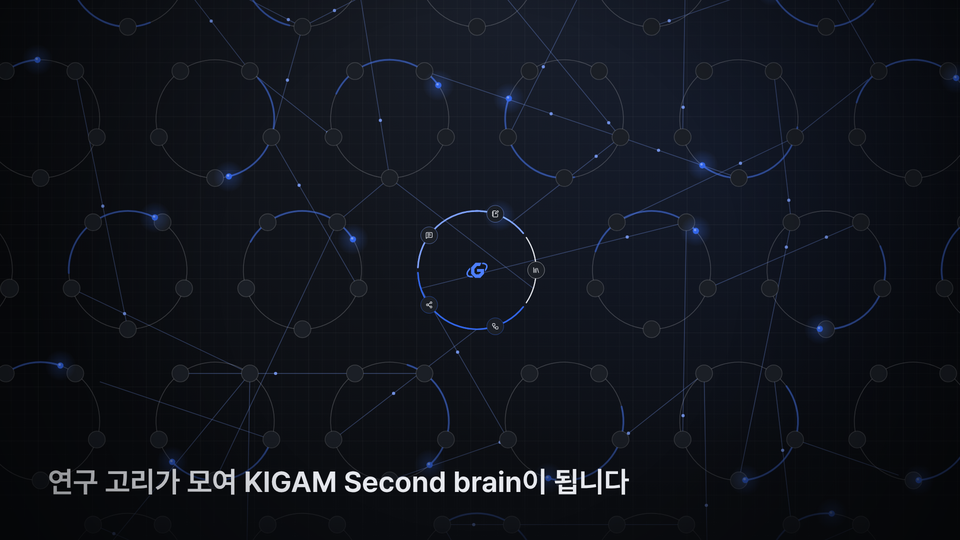
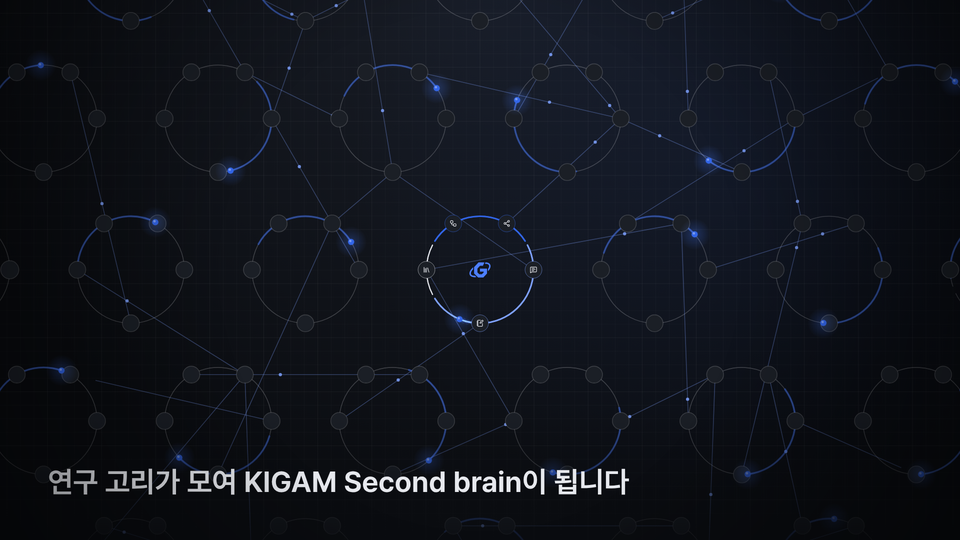
gaid-promo-video-v4-lemo--promo-40s: round 3 render recorded, section draft and figures updated

diff --git a/docs/tasks/gaid-promo-video-v4-lemo--promo-40s.md b/docs/tasks/gaid-promo-video-v4-lemo--promo-40s.md
@@ -1,7 +1,7 @@
 ---
 format: 1
 status: active
-updated: 2026-10-24T05:29:02Z
+updated: 2026-10-24T05:32:14Z
[1 lines of base64/hex data omitted]
 branch: task/gaid-promo-video-v4-lemo--promo-40s
 target: task/gaid-promo-video-v4-lemo
@@ -84,11 +84,11 @@ Do not edit geo/promo/ or geo/promo-lemo/. No review app, no outside publication
 - Done. Sources in geo/promo-lemo-40/ (TREATMENT.md, scene/, render.py, mix.py, master.py, build.sh, README.md, CREDITS).
   Film: 42.0 s one-orbit structure (TREATMENT.md §2–6); real takes only inside six station windows (PGI L1/A3/H2/L3,
   Yilgarn R2/N1), per the user's 2026-10-24 message forwarded by the parent.
-- Final render (round 2): job job-geoaidesk-gaid-promo-video-v4-lemo--promo-40s-2 (source 906fd451), exit 0. Film
-  ~/data/geoaidesk/runs/gaid-promo-video-v4-lemo--promo-40s-20261024T051524.027365Z/out/gaid-promo-40s.mp4,
-  sha256 95701356eccfcf45c187a5aed83c17d30a701ccf407ced7bc8ab87fe3581ab05, 1260 frames, 42.0 s, 1920×1080 30 fps,
-  −14.1 LUFS, LRA 7.5 LU, TP −1.1 dBTP, no black or empty frames, reading check 46 texts / 0 short. Round 1 render
-  (job -1, sha256 e390feba…) is superseded.
+- Final render (round 3): job job-geoaidesk-gaid-promo-video-v4-lemo--promo-40s-3 (source 1c5a8798), exit 0. Film
+  ~/data/geoaidesk/runs/gaid-promo-video-v4-lemo--promo-40s-20261024T052859.356543Z/out/gaid-promo-40s.mp4,
+  sha256 52b0055d004bad90b8ac1428cdf7923d1912d14543bf514af3283fcf958e3546, 1260 frames, 42.0 s, 1920×1080 30 fps,
+  −14.1 LUFS, LRA 7.5 LU, TP −1.1 dBTP, no black or empty frames, reading check 46 texts / 0 short. Renders of jobs -1
+  (e390feba…) and -2 (95701356…) are superseded.
 - Review loop: contact sheets prev1, prev2 and the final job's; 0.2 s strips on prev4 (work dir
   ~/data/geoaidesk/work/gaid-promo-video-v4-lemo--promo-40s/); fixes in TREATMENT.md §11. Sound checked only by
   measurement (loudness, band energy), not by listening.
@@ -96,9 +96,8 @@ Do not edit geo/promo/ or geo/promo-lemo/. No review app, no outside publication
   figures/40s-{1-scatter,2-cycle,3-brain,4-end}.png. Humanizer not run on it; the parent runs it before review-copy.
 - Checks: no automated checks for the film sources; scripts/check unchanged and not run.
 ## Next steps
-1. Round 3 (user, 2026-10-24, this tab: "왼쪽 고리에 있는 것은 왼쪽에 창이 만들어지고 오른쪽 고리에 있는 것은 오른쪽에
-   만들어지는 방식"): fixed ring, windows on each station's side, done in scene/film.js. Re-render with a job, update
-   section-40s.md numbers and figures, task finish, then verify origin/task/gaid-promo-video-v4-lemo--promo-40s moved.
+1. Parent: merge section-40s.md into its report §8 (includes rounds 2 and 3), add the registry entry, run humanizer before
+   review-copy.
 
 ## Failed approaches
 - Round 2 dial ring (job -2, sha256 95701356…): the ring turned so the active station faced one right-hand window. The

diff --git a/reports/2026-10-24-gaid-promo-video-v4-lemo/section-40s.md b/reports/2026-10-24-gaid-promo-video-v4-lemo/section-40s.md
@@ -19,9 +19,9 @@
 
 그림 1. 9.4초. 흩어진 스킬과 도구 카드입니다. 볼 것: 연구자에게서 뻗은 점선이 카드에 닿지 못합니다. 빨간 점은 이 장면에만 나오고, 이후에는 다시 나오지 않습니다.
 
-![연구 순환과 GAID 허브 창](figures/40s-2-cycle.png)
+![연구 순환과 내 서재 창](figures/40s-2-cycle.png)
 
-그림 2. 21.9초. 연구 순환의 GAID 허브 역입니다. 볼 것: 오른쪽 역(GAID 허브)의 창이 오른쪽에 열리고, 연결선은 역에서 바깥쪽으로 짧게 뻗어 고리를 지나지 않습니다. 아래쪽 설명은 GAID 허브와 GAID 시스템을 한 플랫폼의 두 부분으로, 내 서재를 연구자 개인의 문헌 관리 공간으로 소개합니다. 오른쪽 창은 허브에 등록된 Workflow와 version을 보여 주는 실제 화면입니다.
+그림 2. 17.9초. 연구 순환의 내 서재 역입니다. 볼 것: 고리 왼쪽 역(내 서재)의 창이 왼쪽에 열리고, 연결선은 역에서 바깥쪽으로 짧게 뻗어 고리를 지나지 않습니다. 오른쪽 역(GAID 허브, 연구 분석, 연구노트)의 창은 오른쪽에 열립니다. 아래쪽 설명은 GAID 허브와 GAID 시스템을 한 플랫폼의 두 부분으로, 내 서재를 연구자 개인의 문헌 관리 공간으로 소개합니다.
 
 ![여러 연구자의 순환](figures/40s-3-brain.png)
 
@@ -51,11 +51,11 @@
 
 | 항목 | 값 |
 |---|---|
-| 영상 | `~/data/geoaidesk/runs/gaid-promo-video-v4-lemo--promo-40s-20261024T051524.027365Z/out/gaid-promo-40s.mp4` |
[1 lines of base64/hex data omitted]
+| 영상 | `~/data/geoaidesk/runs/gaid-promo-video-v4-lemo--promo-40s-20261024T052859.356543Z/out/gaid-promo-40s.mp4` |
[1 lines of base64/hex data omitted]
 | 길이 | 42.0초, 1260프레임, 1920×1080, 30fps |
 | 음량 | −14.1 LUFS(통합), LRA 7.5 LU, 실제 피크 −1.1 dBTP |
-| 렌더 기록 | job `job-geoaidesk-gaid-promo-video-v4-lemo--promo-40s-2`, receipt `~/data/geoaidesk/runs/gaid-promo-video-v4-lemo--promo-40s-20261024T051524.027365Z/receipt.json`, 소스 커밋 `906fd451887c` |
+| 렌더 기록 | job `job-geoaidesk-gaid-promo-video-v4-lemo--promo-40s-3`, receipt `~/data/geoaidesk/runs/gaid-promo-video-v4-lemo--promo-40s-20261024T052859.356543Z/receipt.json`, 소스 커밋 `1c5a8798bf50` |
 | 소스 | `geo/promo-lemo-40/` (연출안 TREATMENT.md, 장면 scene/, render.py, mix.py, master.py, 한 줄 재생성 build.sh) |
 
 - 빈 화면: 완성 파일에서 완전한 검은 화면은 없었습니다(blackdetect). 무대 위에 그린 요소가 거의 없는 프레임도 없었습니다(모든 프레임을 480×270으로 줄여 밝은 픽셀 비율을 셌습니다).
